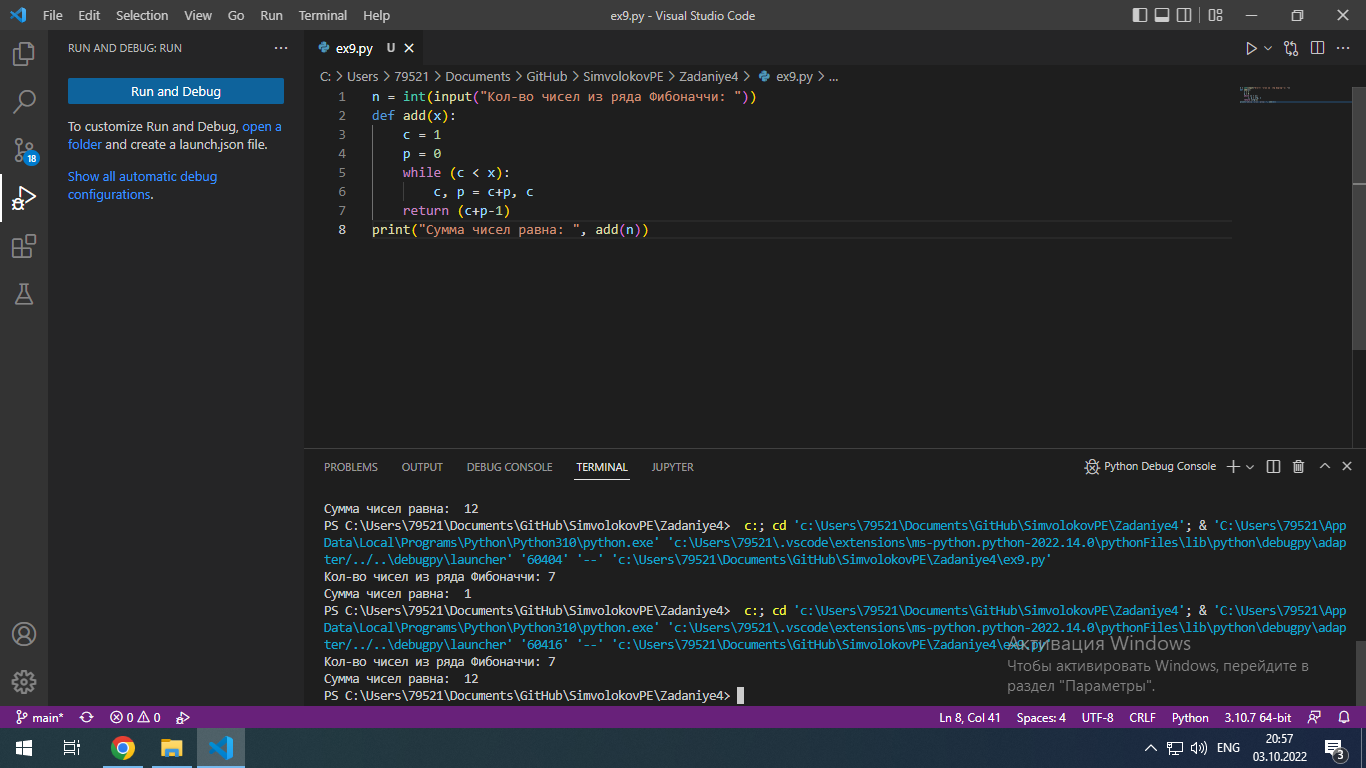
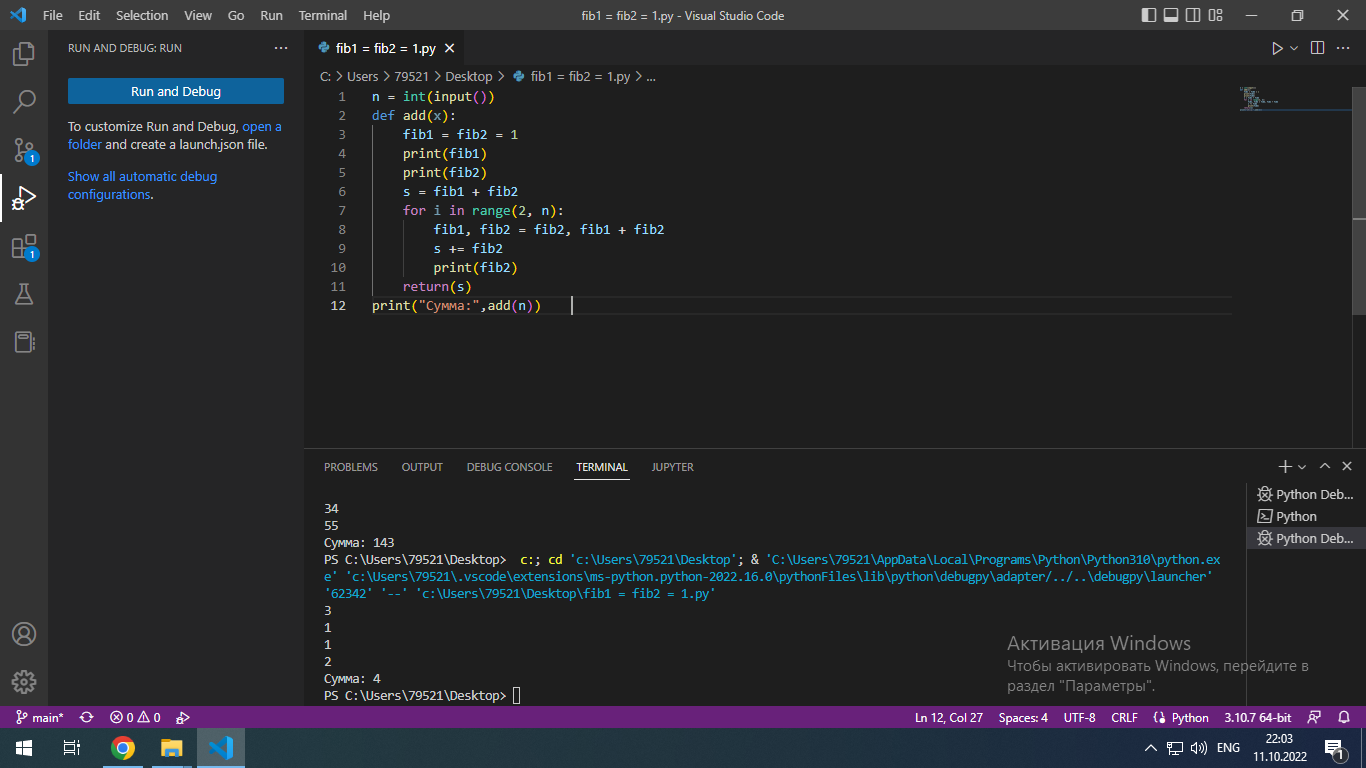
Задание 4

diff --git a/Zadaniye4/ex9.py b/Zadaniye4/ex9.py
@@ -1,8 +1,12 @@
-n = int(input("Кол-во чисел из ряда Фибоначчи: ")) 
-def add(x):
-    c = 1
-    p = 0
-    while (c < x):
-        c, p = c+p, c
-    return (c+p-1)
-print("Сумма чисел равна: ", add(n))    
+n = int(input("Введите число рядов Фибоначчи: "))
+def add(x): 
+    fib1 = fib2 = 1 
+    print(fib1)
+    print(fib2)
+    s = fib1 + fib2
+    for i in range(2, n):
+        fib1, fib2 = fib2, fib1 + fib2
+        s += fib2
+        print(fib2)
+    return(s)
+print("Сумма:",add(n))    
